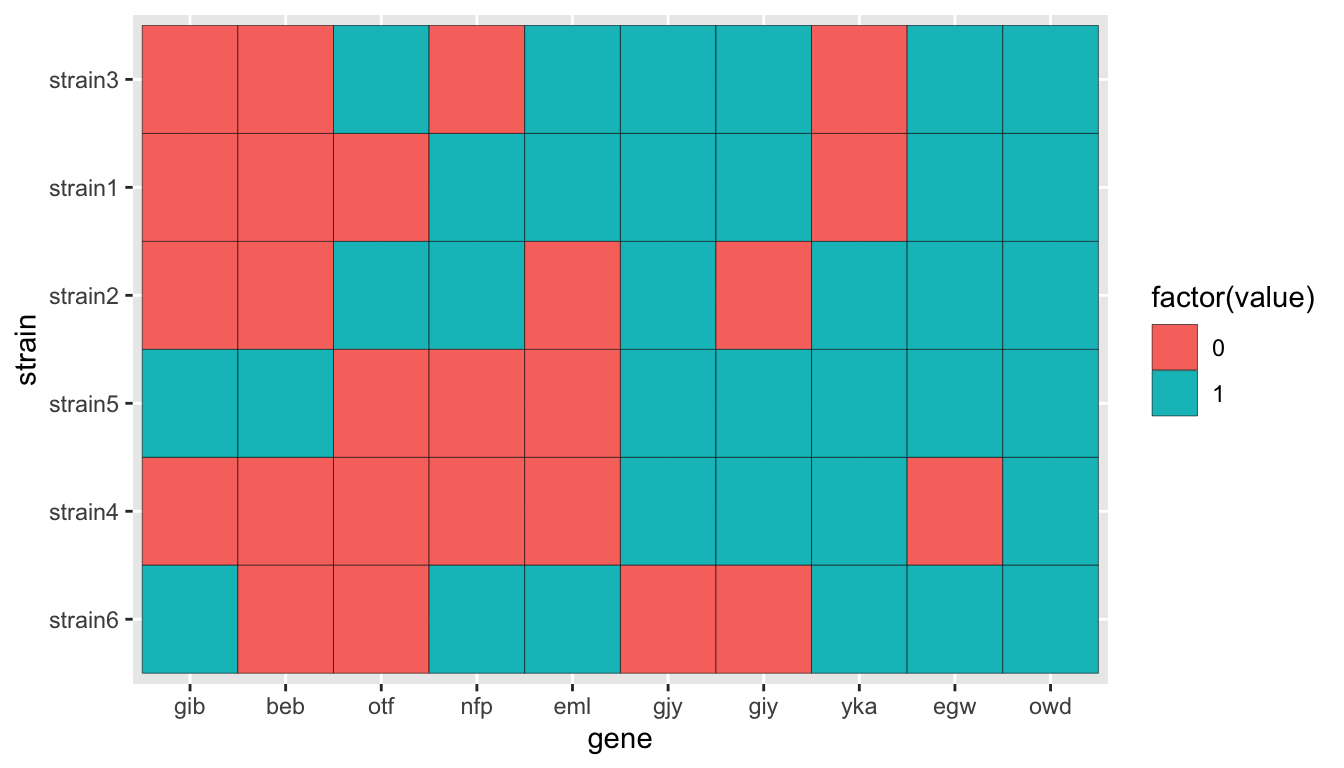
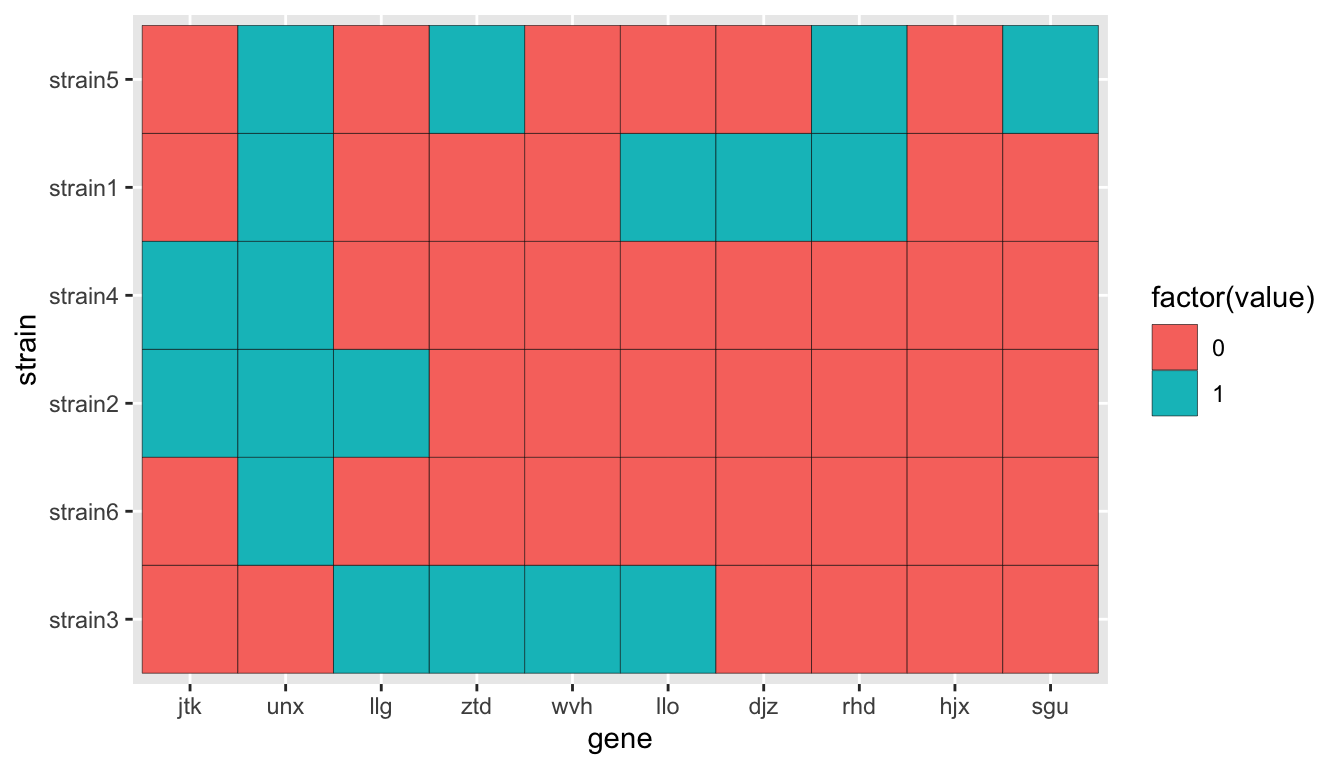
Built site for dendrolenda: 0.1.0@9a131c5

diff --git a/articles/overview.html b/articles/overview.html
@@ -90,12 +90,12 @@
 <h2 class="hasAnchor">
 <a href="#lets-plot-heatmap-with-aligned-dendrograms-using-the-following-randomly-generated-data" class="anchor"></a>Let’s plot heatmap with aligned dendrograms using the following randomly generated data:</h2>
 <pre><code>##   gene  strain value
-## 1  otf strain1     0
-## 2  yka strain1     0
-## 3  egw strain1     1
-## 4  nfp strain1     1
-## 5  gib strain1     0
-## 6  gjy strain1     1</code></pre>
+## 1  wvh strain1     0
+## 2  llo strain1     1
+## 3  djz strain1     1
+## 4  rhd strain1     1
+## 5  hjx strain1     0
+## 6  jtk strain1     0</code></pre>
 </div>
 <div id="create-dendrograms" class="section level2">
 <h2 class="hasAnchor">
@@ -104,7 +104,7 @@
 <span class="kw">d1_dat</span> <span class="op">&lt;-</span> <span class="fu">create_dend</span>(<span class="kw">example_dat</span>, <span class="st">"gene"</span>, <span class="st">"strain"</span>)
 <span class="kw">d2_dat</span> <span class="op">&lt;-</span> <span class="fu">create_dend</span>(<span class="kw">example_dat</span>, <span class="st">"strain"</span>, <span class="st">"gene"</span>)
 </pre></div>
-<pre><code>## [1] "You are fabulous!"</code></pre>
+<pre><code>## [1] "You are spectacular!"</code></pre>
 </div>
 <div id="create-heatmap" class="section level2">
 <h2 class="hasAnchor">
@@ -122,7 +122,7 @@
 <span class="kw">hm</span>
 </pre></div>
 <p><img src="overview_files/figure-html/unnamed-chunk-4-1.png" width="672"></p>
-<pre><code>## [1] "Such a perfect heatmap!"</code></pre>
+<pre><code>## [1] "Such a badass heatmap!"</code></pre>
 </div>
 <div id="create-dendrogram-plots" class="section level2">
 <h2 class="hasAnchor">
@@ -134,7 +134,7 @@
 <span class="kw">d1</span> <span class="op">+</span> <span class="kw">d2</span>
 </pre></div>
 <p><img src="overview_files/figure-html/unnamed-chunk-6-1.png" width="672"></p>
-<pre><code>## [1] "Aye! This is just good!"</code></pre>
+<pre><code>## [1] "Ha! This is just wicked!"</code></pre>
 </div>
 <div id="arrange-all-three-plots-with-legend-positioned-at-the-bottom" class="section level2">
 <h2 class="hasAnchor">
@@ -145,7 +145,7 @@
                    <span class="kw">d2</span> <span class="op">+</span> <span class="fu"><a href="https://ggplot2.tidyverse.org/reference/ggtheme.html">theme_void</a></span>())
 </pre></div>
 <p><img src="overview_files/figure-html/unnamed-chunk-8-1.png" width="672"></p>
-<pre><code>## [1] "You are astounding!"</code></pre>
+<pre><code>## [1] "You are superb!"</code></pre>
 </div>
 <div id="arrange-all-three-plots-with-legend-positioned-in-the-top-right-corner" class="section level2">
 <h2 class="hasAnchor">
@@ -157,7 +157,7 @@
                    top_right = <span class="fu"><a href="../reference/get_legend.html">get_legend</a></span>(<span class="kw">hm</span>))
 </pre></div>
 <p><img src="overview_files/figure-html/unnamed-chunk-10-1.png" width="672"></p>
-<pre><code>## [1] "Aw! This is just primo!"</code></pre>
+<pre><code>## [1] "Yippie! This is just grand!"</code></pre>
 </div>
 <div id="arrange-all-three-plots-with-adjusted-heights-and-widths" class="section level2">
 <h2 class="hasAnchor">
@@ -170,7 +170,7 @@
                    heights = <span class="fu"><a href="https://rdrr.io/r/base/c.html">c</a></span>(<span class="fl">0.1</span>, <span class="fl">0.9</span>))
 </pre></div>
 <p><img src="overview_files/figure-html/unnamed-chunk-12-1.png" width="672"></p>
-<pre><code>## [1] "You are world-class!"</code></pre>
+<pre><code>## [1] "You are ace!"</code></pre>
 </div>
 <div id="arrange-all-three-plots-with-colored-labels-on-right-dendrogram" class="section level2">
 <h2 class="hasAnchor">
@@ -183,7 +183,7 @@
                    <span class="kw">d2</span> <span class="op">+</span> <span class="fu"><a href="https://ggplot2.tidyverse.org/reference/ggtheme.html">theme_void</a></span>())
 </pre></div>
 <p><img src="overview_files/figure-html/unnamed-chunk-14-1.png" width="672"></p>
-<pre><code>## [1] "WHEE! You have done this faithfully!"</code></pre>
+<pre><code>## [1] "HEH! You have done this calmly!"</code></pre>
 </div>
 </div>
   </div>

diff --git a/index.html b/index.html
@@ -76,7 +76,7 @@
 <div id="dendrolenda" class="section level1">
 <div class="page-header"><h1 class="hasAnchor">
 <a href="#dendrolenda" class="anchor"></a>dendrolenda</h1></div>
-<p>Package for alignment of dendrogram plots with heatmap.</p>
+<p>Package for alignment of dendrogram plots with heatmap in ggplot2.</p>
 <div id="background" class="section level2">
 <h2 class="hasAnchor">
 <a href="#background" class="anchor"></a>Background</h2>
@@ -93,13 +93,21 @@
 <span class="kw">remotes</span>::<span class="fu"><a href="https://remotes.r-lib.org/reference/install_github.html">install_github</a></span>(<span class="st">"https://github.com/michbur/dendrolenda"</span>)
 </pre></div>
 </div>
-<div id="manual" class="section level2">
+<div id="usage" class="section level2">
 <h2 class="hasAnchor">
-<a href="#manual" class="anchor"></a>Manual</h2>
-<p>To start the software open an R session and call:</p>
+<a href="#usage" class="anchor"></a>Usage</h2>
 <div class="sourceCode" id="cb2"><pre class="downlit">
+<span class="fu"><a href="https://rdrr.io/r/base/library.html">library</a></span>(<span class="kw"><a href="http://ggplot2.tidyverse.org">ggplot2</a></span>)
 <span class="fu"><a href="https://rdrr.io/r/base/library.html">library</a></span>(<span class="kw">dendrolenda</span>)
+<span class="fu"><a href="https://rdrr.io/r/utils/data.html">data</a></span>(<span class="kw">example_data</span>)
+<span class="kw">dendro_top</span> <span class="op">&lt;-</span> <span class="fu"><a href="reference/plot_dendrogram.html">plot_dendrogram</a></span>(<span class="kw">d1</span>)
+<span class="kw">dendro_right</span> <span class="op">&lt;-</span> <span class="fu"><a href="reference/plot_dendrogram.html">plot_dendrogram</a></span>(<span class="kw">d2</span>) <span class="op">+</span> <span class="fu"><a href="https://ggplot2.tidyverse.org/reference/coord_flip.html">coord_flip</a></span>()
+
+<span class="co"># Plot aligned dendrograms with legend at the bottom</span>
+<span class="fu"><a href="reference/arrange_dendrogram.html">arrange_dendrogram</a></span>(<span class="kw">hm</span> <span class="op">+</span> <span class="fu"><a href="https://ggplot2.tidyverse.org/reference/ggtheme.html">theme_bw</a></span>() <span class="op">+</span> <span class="fu"><a href="https://ggplot2.tidyverse.org/reference/theme.html">theme</a></span>(legend.position = <span class="st">"bottom"</span>),
+<span class="kw">dendro_top</span> <span class="op">+</span> <span class="fu"><a href="https://ggplot2.tidyverse.org/reference/ggtheme.html">theme_void</a></span>(), <span class="kw">dendro_right</span> <span class="op">+</span> <span class="fu"><a href="https://ggplot2.tidyverse.org/reference/ggtheme.html">theme_void</a></span>())
 </pre></div>
+<p><img src="README_files/figure-gfm/unnamed-chunk-1-1.png"><!-- --></p>
 </div>
 </div>
 

diff --git a/reference/dendrolenda-package.html b/reference/dendrolenda-package.html
@@ -130,6 +130,14 @@ with heatmap, so manual arrangement of plots is not necessary!</p>
 
 
 
+    <h2 class="hasAnchor" id="to-hard-working-rafal"><a class="anchor" href="#to-hard-working-rafal"></a>To hard-working Rafal</h2>
+
+    
+
+
+<p>We know how hard you work and how much effort you put in the presentation of
+your results, so here you have a little tool to make your work a bit
+(hopefully) easier.</p>
     <h2 class="hasAnchor" id="happy-birthday-rafal-"><a class="anchor" href="#happy-birthday-rafal-"></a>Happy Birthday, Rafal!</h2>
 
     
